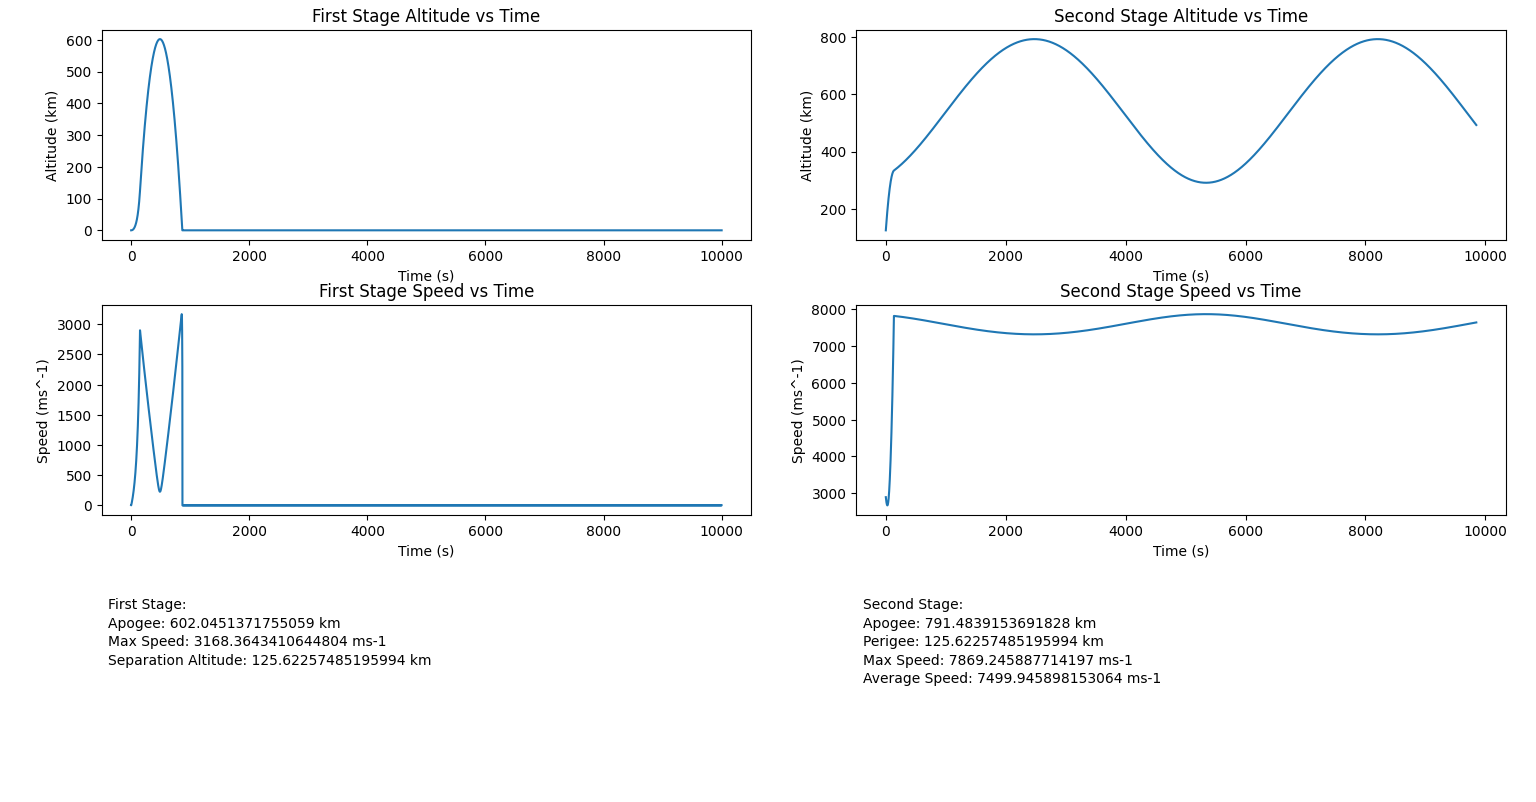
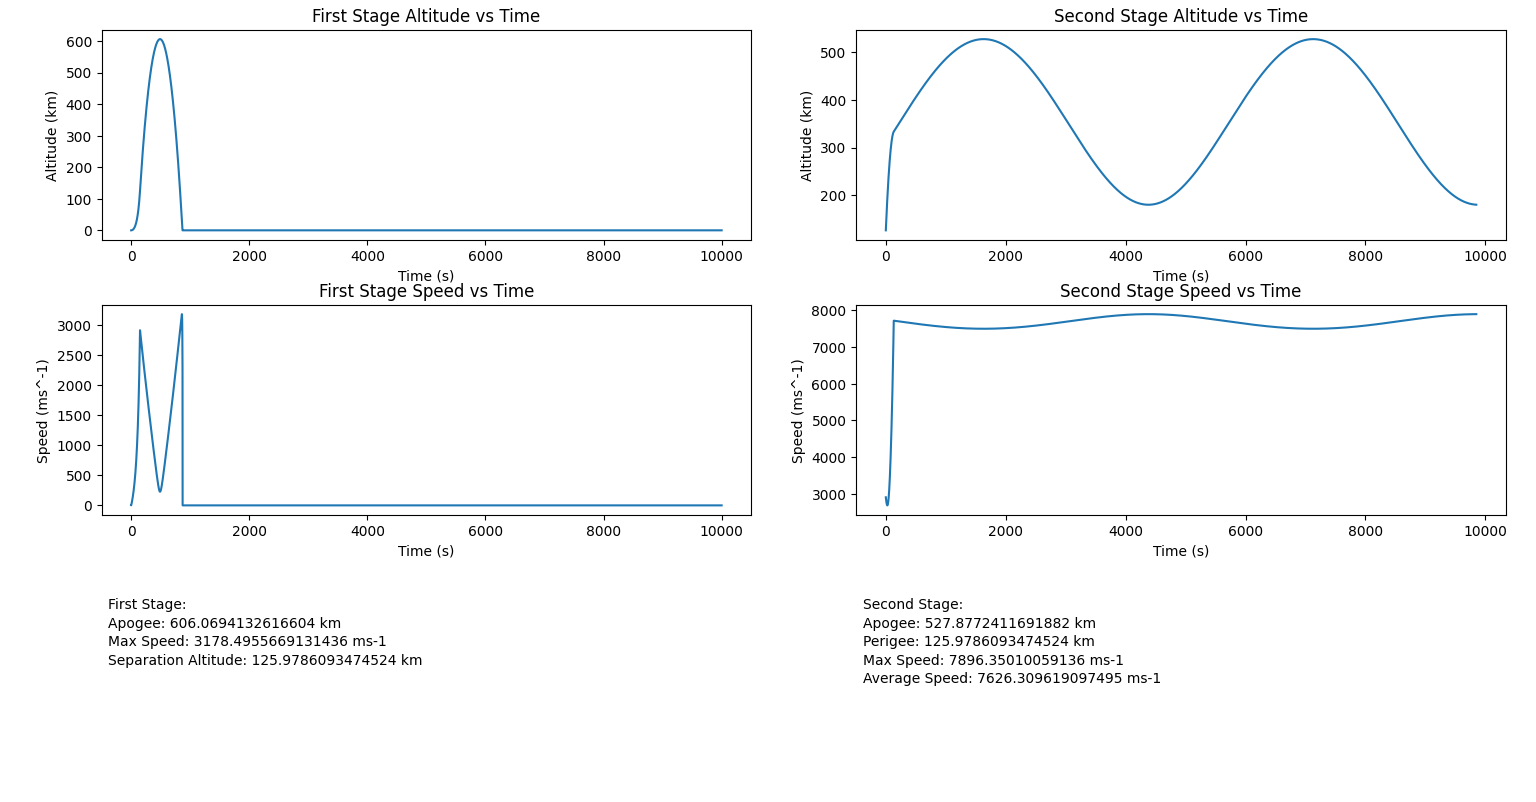
changed values

diff --git a/result.py b/result.py
@@ -7,19 +7,19 @@ from matplotlib.patches import Circle
 
 #setting values for our rockets and environment
 first_stage = Rocket(
-    mass_empty = 1300+250+470,
-    fuel_mass = 9700,
-    thrust = 162000,
-    burn_rate = 9700 / 150,    
-    area = 3.1416 * (1.2 / 2)**2  
+    mass_empty = 25600 + 4000 + 6200,
+    fuel_mass = 385000,   
+    thrust = 7607000,         
+    burn_rate = 2500,            
+    area = 3.66 ** 2 * 3.1416 / 4    
 )
 
 second_stage = Rocket(
-    mass_empty = 250,
-    fuel_mass = 470,
-    thrust = 25800,            
-    burn_rate = 3.47222,   
-    area = 3.1416 * (1.2 / 2)**2  
+    mass_empty = 4000,
+    fuel_mass = 6200, 
+    thrust = 934000,    
+    burn_rate = 250, 
+    area = 3.66 ** 2 * 3.1416 / 4
 )
 
 environment = Environment(
@@ -81,14 +81,16 @@ while True:
 
     #second stage operation
     if first_stage.fuel_mass < 1:
+        #start second stage with initialization
         if len(second_stage_positions) == 0:
             separation_altitude = ((np.linalg.norm((first_stage.position)) - environment.planet_radius) / 1000)
             second_stage.position = first_stage.position.copy()
             second_stage.velocity = first_stage.velocity.copy()
-            second_stage.set_angle(angle=np.radians(195))
+            second_stage.set_angle(angle=np.radians(208))
 
-        
         altitude2 = np.linalg.norm(second_stage.position) - environment.planet_radius
+        
+        speed = np.linalg.norm(second_stage.velocity)
 
         second_stage.burn(dt=dt)
         thrust = second_stage.thrust_vector()

diff --git a/angle.py b/angle.py
@@ -10,7 +10,7 @@ class Angle:
         pass
     def angle_function(self, x_value):
         x = sy.symbols("x")
-        y = 1.05**(x-400)
+        y = 1.05**(x-250)
         gf = sy.diff(y, x)
         m = gf.subs(x, x_value)
         return(np.degrees(np.arctan(float(m))))
